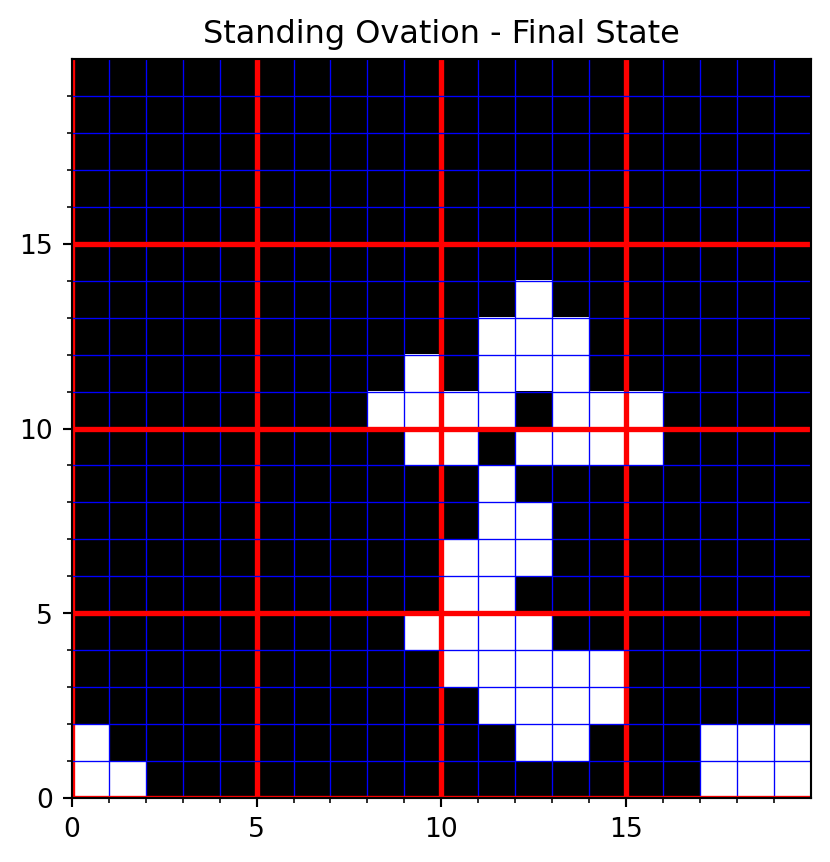
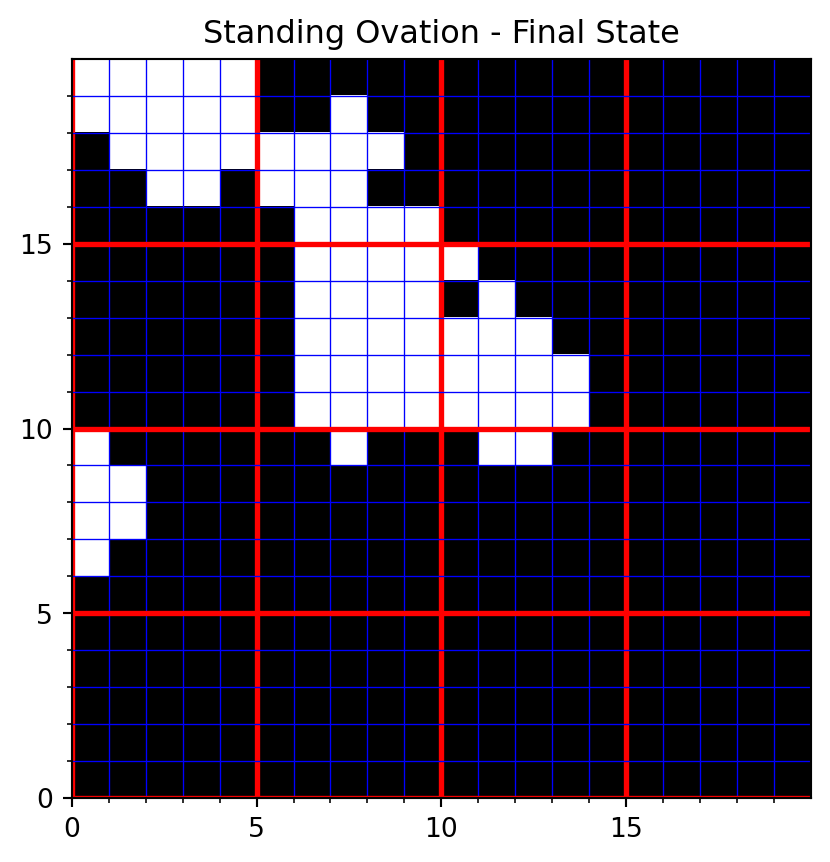
fixes

diff --git a/docs/posts/w02.html b/docs/posts/w02.html
@@ -764,8 +764,8 @@ B(X, Y) = \sum_{i=1}^{n} \frac{x_i}{X} \frac{y_i}{T_i} \qquad
 <span id="cb1-4"><a href="#cb1-4" aria-hidden="true" tabindex="-1"></a>df[<span class="st">'City'</span>] <span class="op">=</span> df[<span class="st">'City'</span>].<span class="bu">str</span>.<span class="bu">slice</span>(<span class="dv">0</span>,<span class="dv">20</span>)</span>
 <span id="cb1-5"><a href="#cb1-5" aria-hidden="true" tabindex="-1"></a>show(df,maxBytes <span class="op">=</span> <span class="dv">200</span> <span class="op">*</span> <span class="dv">1024</span>)</span></code><button title="Copy to Clipboard" class="code-copy-button"><i class="bi"></i></button></pre></div>
 <div class="cell-output cell-output-display">
-<table id="itables_d21893ae_d0c8_435e_9280_22801375ee3f" class="display nowrap" data-quarto-disable-processing="true" style="table-layout:auto;width:auto;margin:auto;caption-side:bottom"><caption><p>Segregation in US cities with a population greater than 20k based on
-the 2020 census</p> {#ccf9e80a}</caption>
+<table id="itables_71ef8495_3db7_48d8_862a_42094b0b7b1a" class="display nowrap" data-quarto-disable-processing="true" style="table-layout:auto;width:auto;margin:auto;caption-side:bottom"><caption><p>Segregation in US cities with a population greater than 20k based on
+the 2020 census</p> {#4de9f5da}</caption>
 <thead>
     <tr style="text-align: right;">
       
@@ -846,7 +846,7 @@ Loading ITables v2.1.0 from the internet...
 <script type="module">
     import {DataTable, jQuery as $} from 'https://www.unpkg.com/dt_for_itables@2.0.7/dt_bundle.js';
 
-    document.querySelectorAll("#itables_d21893ae_d0c8_435e_9280_22801375ee3f:not(.dataTable)").forEach(table => {
+    document.querySelectorAll("#itables_71ef8495_3db7_48d8_862a_42094b0b7b1a:not(.dataTable)").forEach(table => {
         // Define the table data
         const data = [[1, "Detroit city, MI", 0.806, "High Segregation"], [2, "Newark city, NJ", 0.6806, "High Segregation"], [3, "Hialeah city, FL", 0.654, "High Segregation"], [4, "Chicago city, IL", 0.6223, "High Segregation"], [5, "Milwaukee city, WI", 0.5936, "High Segregation"], [6, "Cleveland city, OH", 0.5478, "High Segregation"], [7, "New York city, NY", 0.4379, "High Segregation"], [8, "Irving city, TX", 0.4082, "High Segregation"], [9, "Miami city, FL", 0.4074, "High Segregation"], [10, "St. Louis city, MO", 0.4069, "High Segregation"], [11, "Philadelphia city, P", 0.3974, "High Segregation"], [12, "Dallas city, TX", 0.3968, "High Segregation"], [13, "Irvine city, CA", 0.3876, "High Segregation"], [14, "Santa Ana city, CA", 0.3762, "High Segregation"], [15, "Atlanta city, GA", 0.363, "High Segregation"], [16, "Oakland city, CA", 0.3572, "High Segregation"], [17, "Memphis city, TN", 0.3453, "High Segregation"], [18, "Buffalo city, NY", 0.3362, "High Segregation"], [19, "Baltimore city, MD", 0.3335, "High Segregation"], [20, "Boston city, MA", 0.3333, "High Segregation"], [21, "Fremont city, CA", 0.3297, "High Segregation"], [22, "Washington city, DC", 0.3295, "High Segregation"], [23, "New Orleans city, LA", 0.3226, "High Segregation"], [24, "Houston city, TX", 0.3187, "High Segregation"], [25, "Los Angeles city, CA", 0.3088, "High Segregation"], [26, "Cincinnati city, OH", 0.3006, "High Segregation"], [27, "Jersey City city, NJ", 0.2953, "High Segregation"], [28, "St. Paul city, MN", 0.2949, "High Segregation"], [29, "Orlando city, FL", 0.2877, "High Segregation"], [30, "Baton Rouge city, LA", 0.2817, "High Segregation"], [31, "Little Rock city, AR", 0.2813, "High Segregation"], [32, "Richmond city, VA", 0.2794, "High Segregation"], [33, "Tampa city, FL", 0.2787, "High Segregation"], [34, "Kansas City city, MO", 0.2754, "High Segregation"], [35, "Frisco city, TX", 0.2743, "High Segregation"], [36, "Plano city, TX", 0.2689, "High Segregation"], [37, "Indianapolis city (b", 0.2538, "High Segregation"], [38, "Chula Vista city, CA", 0.2522, "High Segregation"], [39, "San Diego city, CA", 0.2514, "High Segregation"], [40, "Phoenix city, AZ", 0.2429, "High Segregation"], [41, "Charlotte city, NC", 0.2347, "High Segregation"], [42, "St. Petersburg city,", 0.2278, "High Segregation"], [43, "Scottsdale city, AZ", 0.2241, "High Segregation"], [44, "Fort Worth city, TX", 0.2232, "High Segregation"], [45, "Omaha city, NE", 0.2229, "High Segregation"], [46, "Yonkers city, NY", 0.2207, "High Segregation"], [47, "Huntsville city, AL", 0.2206, "High Segregation"], [48, "Minneapolis city, MN", 0.2206, "High Segregation"], [49, "Pittsburgh city, PA", 0.2195, "High Segregation"], [50, "Rochester city, NY", 0.2182, "High Segregation"], [51, "Montgomery city, AL", 0.2135, "High Segregation"], [52, "Oklahoma City city, ", 0.2119, "High Segregation"], [53, "Tulsa city, OK", 0.2118, "High Segregation"], [54, "Columbus city, OH", 0.2088, "High Segregation"], [55, "Long Beach city, CA", 0.2077, "High Segregation"], [56, "Greensboro city, NC", 0.2055, "High Segregation"], [57, "Nashville-Davidson m", 0.203, "High Segregation"], [58, "Denver city, CO", 0.1971, "High Segregation"], [59, "Columbus city, GA", 0.1893, "High Segregation"], [60, "North Las Vegas city", 0.1888, "High Segregation"], [61, "Raleigh city, NC", 0.1878, "High Segregation"], [62, "Norfolk city, VA", 0.1858, "High Segregation"], [63, "San Jose city, CA", 0.1852, "High Segregation"], [64, "Winston-Salem city, ", 0.1851, "High Segregation"], [65, "Garland city, TX", 0.1811, "High Segregation"], [66, "San Francisco city, ", 0.1797, "High Segregation"], [67, "Louisville/Jefferson", 0.1783, "High Segregation"], [68, "Aurora city, CO", 0.1756, "Low-Medium Segregation"], [69, "Sacramento city, CA", 0.1731, "Low-Medium Segregation"], [70, "Jacksonville city, F", 0.1705, "Low-Medium Segregation"], [71, "McKinney city, TX", 0.1698, "Low-Medium Segregation"], [72, "Durham city, NC", 0.1686, "Low-Medium Segregation"], [73, "Amarillo city, TX", 0.1678, "Low-Medium Segregation"], [74, "San Bernardino city,", 0.1673, "Low-Medium Segregation"], [75, "Toledo city, OH", 0.1661, "Low-Medium Segregation"], [76, "Austin city, TX", 0.1613, "Low-Medium Segregation"], [77, "Fort Wayne city, IN", 0.161, "Low-Medium Segregation"], [78, "Lubbock city, TX", 0.1572, "Low-Medium Segregation"], [79, "Fontana city, CA", 0.153, "Low-Medium Segregation"], [80, "Augusta-Richmond Cou", 0.151, "Low-Medium Segregation"], [81, "Arlington city, TX", 0.15, "Low-Medium Segregation"], [82, "Glendale city, AZ", 0.1487, "Low-Medium Segregation"], [83, "Virginia Beach city,", 0.1487, "Low-Medium Segregation"], [84, "Wichita city, KS", 0.1485, "Low-Medium Segregation"], [85, "Las Vegas city, NV", 0.144, "Low-Medium Segregation"], [86, "San Antonio city, TX", 0.1411, "Low-Medium Segregation"], [87, "Tucson city, AZ", 0.1406, "Low-Medium Segregation"], [88, "Stockton city, CA", 0.1402, "Low-Medium Segregation"], [89, "Anaheim city, CA", 0.14, "Low-Medium Segregation"], [90, "Bakersfield city, CA", 0.1318, "Low-Medium Segregation"], [91, "Fresno city, CA", 0.1289, "Low-Medium Segregation"], [92, "Des Moines city, IA", 0.1284, "Low-Medium Segregation"], [93, "Chandler city, AZ", 0.1276, "Low-Medium Segregation"], [94, "Moreno Valley city, ", 0.1253, "Low-Medium Segregation"], [95, "Chesapeake city, VA", 0.1181, "Low-Medium Segregation"], [96, "Lexington-Fayette ur", 0.1166, "Low-Medium Segregation"], [97, "Mesa city, AZ", 0.1146, "Low-Medium Segregation"], [98, "Tacoma city, WA", 0.1135, "Low-Medium Segregation"], [99, "Henderson city, NV", 0.1111, "Low-Medium Segregation"], [100, "Corpus Christi city,", 0.1075, "Low-Medium Segregation"], [101, "Seattle city, WA", 0.1043, "Low-Medium Segregation"], [102, "Worcester city, MA", 0.0999, "Low-Medium Segregation"], [103, "Riverside city, CA", 0.0967, "Low-Medium Segregation"], [104, "Albuquerque city, NM", 0.0966, "Low-Medium Segregation"], [105, "Reno city, NV", 0.0908, "Low-Medium Segregation"], [106, "Gilbert town, AZ", 0.0879, "Low-Medium Segregation"], [107, "Fayetteville city, N", 0.0853, "Low-Medium Segregation"], [108, "Modesto city, CA", 0.0812, "Low-Medium Segregation"], [109, "Madison city, WI", 0.0812, "Low-Medium Segregation"], [110, "Anchorage municipali", 0.0775, "Low-Medium Segregation"], [111, "Portland city, OR", 0.0683, "Low-Medium Segregation"], [112, "El Paso city, TX", 0.0644, "Low-Medium Segregation"], [114, "Lincoln city, NE", 0.0464, "Low-Medium Segregation"], [115, "Cape Coral city, FL", 0.0379, "Low-Medium Segregation"], [116, "Boise City city, ID", 0.0379, "Low-Medium Segregation"], [118, "Spokane city, WA", 0.0219, "Low-Medium Segregation"], [119, "Laredo city, TX", 0.0109, "Low-Medium Segregation"], [113, "Colorado Springs cit", 0.0531, "Integrated"], [117, "Port St. Lucie city,", 0.027, "Integrated"]];
 
@@ -1124,7 +1124,7 @@ S^0  = \sum ^C_{j=1}\sum ^R_{i=1} s^0_{ij}
 <ol type="1">
 <li></li>
 </ol>
-<div id="ffd09d6d" class="cell" data-execution_count="2">
+<div id="6fda29a6" class="cell" data-execution_count="2">
 <div class="sourceCode cell-code" id="cb2"><pre class="sourceCode python code-with-copy"><code class="sourceCode python"><span id="cb2-1"><a href="#cb2-1" aria-hidden="true" tabindex="-1"></a><span class="im">import</span> mesa</span>
 <span id="cb2-2"><a href="#cb2-2" aria-hidden="true" tabindex="-1"></a></span>
 <span id="cb2-3"><a href="#cb2-3" aria-hidden="true" tabindex="-1"></a><span class="kw">class</span> AudienceMember(mesa.Agent):</span>
@@ -1192,7 +1192,7 @@ S^0  = \sum ^C_{j=1}\sum ^R_{i=1} s^0_{ij}
 <span id="cb2-65"><a href="#cb2-65" aria-hidden="true" tabindex="-1"></a>        <span class="va">self</span>.datacollector.collect(<span class="va">self</span>)</span></code><button title="Copy to Clipboard" class="code-copy-button"><i class="bi"></i></button></pre></div>
 </div>
 <p>Some code to visualize the state</p>
-<div id="cbe70f79" class="cell" data-execution_count="3">
+<div id="4a0fb317" class="cell" data-execution_count="3">
 <div class="sourceCode cell-code" id="cb3"><pre class="sourceCode python code-with-copy"><code class="sourceCode python"><span id="cb3-1"><a href="#cb3-1" aria-hidden="true" tabindex="-1"></a><span class="im">import</span> matplotlib.pyplot <span class="im">as</span> plt</span>
 <span id="cb3-2"><a href="#cb3-2" aria-hidden="true" tabindex="-1"></a><span class="im">from</span> matplotlib.ticker <span class="im">import</span> MultipleLocator, FormatStrFormatter</span>
 <span id="cb3-3"><a href="#cb3-3" aria-hidden="true" tabindex="-1"></a></span>
@@ -1228,7 +1228,7 @@ S^0  = \sum ^C_{j=1}\sum ^R_{i=1} s^0_{ij}
 <span id="cb3-33"><a href="#cb3-33" aria-hidden="true" tabindex="-1"></a>    plt.title(<span class="ss">f"</span><span class="sc">{</span>model_name<span class="sc">}</span><span class="ss"> - </span><span class="sc">{</span>state_name<span class="sc">}</span><span class="ss">"</span>)</span>
 <span id="cb3-34"><a href="#cb3-34" aria-hidden="true" tabindex="-1"></a>    plt.show()</span></code><button title="Copy to Clipboard" class="code-copy-button"><i class="bi"></i></button></pre></div>
 </div>
-<div id="5a62210e" class="cell" data-execution_count="4">
+<div id="17a4f0c0" class="cell" data-execution_count="4">
 <div class="sourceCode cell-code" id="cb4"><pre class="sourceCode python code-with-copy"><code class="sourceCode python"><span id="cb4-1"><a href="#cb4-1" aria-hidden="true" tabindex="-1"></a><span class="co"># Create the model</span></span>
 <span id="cb4-2"><a href="#cb4-2" aria-hidden="true" tabindex="-1"></a>so_model <span class="op">=</span> StandingOvationModel(<span class="dv">20</span>, <span class="dv">20</span>, initial_standing<span class="op">=</span><span class="fl">0.1</span>, threshold<span class="op">=</span><span class="fl">0.5</span>)</span></code><button title="Copy to Clipboard" class="code-copy-button"><i class="bi"></i></button></pre></div>
 <div class="cell-output cell-output-stderr">
@@ -1258,7 +1258,7 @@ Figure&nbsp;1: Standing Ovation Model - Initial Grid State
 </div>
 </div>
 <p>Simulate the standing ovation model for 15 steps.</p>
-<div id="ca6e61c0" class="cell" data-execution_count="6">
+<div id="76b0bff7" class="cell" data-execution_count="6">
 <div class="sourceCode cell-code" id="cb7"><pre class="sourceCode python code-with-copy"><code class="sourceCode python"><span id="cb7-1"><a href="#cb7-1" aria-hidden="true" tabindex="-1"></a><span class="co"># Run the model for a certain number of steps</span></span>
 <span id="cb7-2"><a href="#cb7-2" aria-hidden="true" tabindex="-1"></a><span class="cf">for</span> i <span class="kw">in</span> <span class="bu">range</span>(<span class="dv">15</span>):</span>
 <span id="cb7-3"><a href="#cb7-3" aria-hidden="true" tabindex="-1"></a>    so_model.step()</span></code><button title="Copy to Clipboard" class="code-copy-button"><i class="bi"></i></button></pre></div>
@@ -1302,23 +1302,23 @@ Figure&nbsp;2: Standing Ovation Model - Final Grid State
 <tbody>
 <tr class="odd">
 <td data-quarto-table-cell-role="th">0</td>
-<td>86</td>
+<td>84</td>
 </tr>
 <tr class="even">
 <td data-quarto-table-cell-role="th">1</td>
-<td>144</td>
+<td>115</td>
 </tr>
 <tr class="odd">
 <td data-quarto-table-cell-role="th">2</td>
-<td>203</td>
+<td>158</td>
 </tr>
 <tr class="even">
 <td data-quarto-table-cell-role="th">3</td>
-<td>238</td>
+<td>200</td>
 </tr>
 <tr class="odd">
 <td data-quarto-table-cell-role="th">4</td>
-<td>258</td>
+<td>233</td>
 </tr>
 </tbody>
 </table>

diff --git a/docs/posts/w06.html b/docs/posts/w06.html
@@ -91,7 +91,7 @@ div.csl-indent {
 <style>
 
       .quarto-title-block .quarto-title-banner {
-        background-image: url(images/mt_seg_bg03.png);
+        background-image: url(../images/banner_black_3.jpg);
 background-size: cover;
       }
 </style>
@@ -259,10 +259,19 @@ window.Quarto = {
 <h2 class="anchored" data-anchor-id="sec-introduction-to-categorical-linear-and-non-linear-models">Introduction to categorical, linear, and nonlinear models</h2>
 <p>Categorical models allocates the data into different boxes. For example, trying to understand why some people live longer than others, we could divide them into people who exercise and people who do not exercise. By looking at the variation and the mean values in those boxes, you might find out whether or not this categorization says something about how long people live.</p>
 
-<div class="no-row-height column-margin column-container"><div class="quarto-figure quarto-figure-center">
+<div class="no-row-height column-margin column-container"><div id="fig-linear-model" class="quarto-float quarto-figure quarto-figure-center anchored">
+<figure class="quarto-float quarto-float-fig figure">
+<div aria-describedby="fig-linear-model-caption-0ceaefa1-69ba-4598-a22c-09a6ac19f8ca">
+<div class="quarto-figure quarto-figure-center">
 <figure class="figure">
 <p><img src="images/mt_linear_data.jpg" class="img-fluid figure-img"></p>
-<figcaption>Constructing linear model from data</figcaption>
+<figcaption>Scatter Plot with regression line fitted</figcaption>
+</figure>
+</div>
+</div>
+<figcaption class="quarto-float-caption-bottom quarto-float-caption quarto-float-fig" id="fig-linear-model-caption-0ceaefa1-69ba-4598-a22c-09a6ac19f8ca">
+Figure&nbsp;1: Constructing linear model from data
+</figcaption>
 </figure>
 </div></div><p>Linear models assume that some variable <span class="math inline">Y</span> depends on variable <span class="math inline">X</span>, so <span class="math inline">Y</span> is a function of <span class="math inline">X</span> or <span class="math inline">Y = f(X)</span>.</p>
 <p>For instance, if <span class="math inline">Y</span> is life expectancy, <span class="math inline">X</span> might measure physical exercise. Thus, life expectancy is a function of how much a person exercises.</p>
@@ -278,23 +287,38 @@ Y = a_1X_1 + a_2X_2
 <li><span class="math inline">X_2</span> might be teacher quality.</li>
 </ul>
 <p>Here <span class="math inline">a_1</span> and <span class="math inline">a_2</span> are the coefficients. These coefficients tell how important the variable is, so the bigger the coefficient, the more important the variable.</p>
-<p>Linear models can lead to big coefficient thinking, and if these are valid, then that will serve decision-makers better than rules of thumb, intuition, or experience. However, as time passes, reusing the main effect of an old model may be inadequate. There could be data drift, or alternatively, any improvement due to the main effect may have petered out due to diminishing returns. Over time, overhalling dysfunctional policies can require new and radical thinking. Approaches like revisiting old assumptions and rethinking out of the box can lead to something new, which we call new reality thinking. A problem with big coefficient thinking is that it only works in areas with specific data available. Over time, new data may even switch the size of the coefficients, leading to a loss of confidence in the model. Significant breakthroughs are often made by shifting to areas without data. A “new reality” will arise when the projections of big coefficients or even the assumptions behind them can be seen as inadequate, and decision-makers decide to rebuild a new model. ::: callout-warning ### Big Coefficient Warning:</p>
-<p>Regression and Linear models can have negative coefficients, interaction terms and so on, which, with one negative term, can render the “big coefficient.” approximation or decision wrong. :::</p>
-<p><span class="math display">
+<p>Linear models can lead to big coefficient thinking, and if these are valid, then that will serve decision-makers better than rules of thumb, intuition, or experience. However, as time passes, reusing the main effect of an old model may be inadequate. There could be data drift, or alternatively, any improvement due to the main effect may have petered out due to diminishing returns. Over time, overhalling dysfunctional policies can require new and radical thinking. Approaches like revisiting old assumptions and rethinking out of the box can lead to something new, which we call new reality thinking. A problem with big coefficient thinking is that it only works in areas with specific data available. Over time, new data may even switch the size of the coefficients, leading to a loss of confidence in the model. Significant breakthroughs are often made by shifting to areas without data. A “new reality” will arise when the projections of big coefficients or even the assumptions behind them can be seen as inadequate, and decision-makers decide to rebuild a new model.</p>
+<div class="callout callout-style-default callout-warning callout-titled">
+<div class="callout-header d-flex align-content-center">
+<div class="callout-icon-container">
+<i class="callout-icon"></i>
+</div>
+<div class="callout-title-container flex-fill">
+Big Coefficient Warning:
+</div>
+</div>
+<div class="callout-body-container callout-body">
+<p>Regression and Linear models can have negative coefficients, interaction terms and so on, which, with one negative term, can render the “big coefficient.” approximation or decision wrong.</p>
+</div>
+</div>
+<p><span id="eq-big-coefficient"><span class="math display">
 Y = 6 X_1 + 6 X_2 - 8 X_3 \\ \text{subject to} (X_3 = max({X_1,X_2}))
-</span></p>
+\tag{1}</span></span></p>
 <p>We want to increase <span class="math inline">Y</span>. The big coefficient is <span class="math inline">X_3</span>, but it reduces <span class="math inline">Y</span>. Reducing <span class="math inline">X_3</span> will reduce <span class="math inline">Y</span> since it also reduces <span class="math inline">X_1, X_2</span> to increase. Increasing <span class="math inline">Y</span>, we need to increase <span class="math inline">X_1</span> and <span class="math inline">X_2</span> together as increasing just one will increase <span class="math inline">X_3</span> and thus decrease <span class="math inline">Y</span>. The bottom line is that under certain conditions not listed by Dr.&nbsp;Page, the big coefficient is a useful approximation, but this assumption is not generally true in regression models. Dr.&nbsp;Page introduces the concept of a <strong>“new reality”</strong> to counter the shortcomings of big coefficient thinking. Unfortunately, the new reality that was introduced seems to have arisen from a failure. Later, he makes a case that “new reality” is a policy based on some other effect. However, these new reality initiatives seem to have no evidence to back them up. So this seems like <strong>muddy thinking</strong> rather than <strong>Clear thinking</strong></p>
 </section>
 <section id="sec-categorical-models" class="level2 page-columns page-full">
 <h2 class="anchored" data-anchor-id="sec-categorical-models">Categorical models</h2>
 <p>Categorical models allocate the data into different groups. Variation in and between groups can be capture much of the overall variation in variations in the data.</p>
 <div id="exm-amazon-stock" class="theorem example">
-<p><span class="theorem-title"><strong>Example 1</strong></span> e.g., at the time of the IPO of Amazon, most analysts catagorised it as a delivery service like DHL or FedEx, and because the delivery buiness was such a cut-throat bussiness companies in it have low-profit margins so they thought Amazon would be a bad investment. A few analysts thought Amazon would be a good investment because they saw Amazon as part of the new information economy. Differnt analysts put Amazon in a different boxes. Amazon did badly for over a decade then they started letting computers a totatly differnt business model and then they did very well, so which box we choose matters for our investment portfollio and also which story you choose to tell. :::: {callout-info} ### dot.com crash &amp; the information economy. <span class="emoji" data-emoji="poop">💩</span> <span class="emoji" data-emoji="poop">💩</span> <span class="emoji" data-emoji="poop">💩</span></p>
+<p><span class="theorem-title"><strong>Example 1</strong></span> e.g., at the time of the IPO of Amazon, most analysts catagorised it as a delivery service like DHL or FedEx, and because the delivery buiness was such a cut-throat bussiness companies in it have low-profit margins so they thought Amazon would be a bad investment. A few analysts thought Amazon would be a good investment because they saw Amazon as part of the new information economy. Differnt analysts put Amazon in a different boxes. Amazon did badly for over a decade then they started letting computers a totatly differnt business model and then they did very well, so which box we choose matters for our investment portfollio and also which story you choose to tell.</p>
+<section id="dot.com-crash-the-information-economy." class="level3 {callout-info}">
+<h3 class="anchored" data-anchor-id="dot.com-crash-the-information-economy.">dot.com crash &amp; the information economy. <span class="emoji" data-emoji="poop">💩</span> <span class="emoji" data-emoji="poop">💩</span> <span class="emoji" data-emoji="poop">💩</span></h3>
 <p>Any time I hear the concept of “the information economy” I am sad to recall how this “rethoric for a new economy” died with out when most of the dot.com companies burt through their VC/IPO money through incompetency or corrupt management caused a global recession. So I think Dr.&nbsp;Page is being disingenious by picking this example.</p>
 <p>I also recall Amazon had zero or negative profits for over a decade after the doc.com crash. It overhauled its bussines concept servral times before it became a “good” investment and is facing stiff competition in its primery market from chinese stores. Also over times there are many new stories coming out how Amazon is making profits by squeezing it workforce to work harder and for less that DHL and FedEx which are both partners and competitors.</p>
 <p>Finaly the question this example raises is: How can we find build a model that knows to place novel items accurately into new boxes without any other examples. Because model are supposed to better than analysts. In reality categorical model are not as resourceful as an analyst, they can’t invent new catergories. Event if is add some extra lables, without examples the model wont assign new items to these category.</p>
+</section>
 </div>
-<p>::: Lump to live means that we create categories to make sense of the world. For example, if we see a car, we do not say there goes a 2003 Volkswagen 1.6 GTI, but we say car. We model to decide, plan, and design. One reason we lump is to make faster decisions. For example, a child may have a rule not to eat green items. This helps the child avoid eating grasshoppers, which it does not like to eat. However, the rule is not optimal. The child might forego a juicy pear in this way.</p>
+<p>Lump to live means that we create categories to make sense of the world. For example, if we see a car, we do not say there goes a 2003 Volkswagen 1.6 GTI, but we say car. We model to decide, plan, and design. One reason we lump is to make faster decisions. For example, a child may have a rule not to eat green items. This helps the child avoid eating grasshoppers, which it does not like to eat. However, the rule is not optimal. The child might forego a juicy pear in this way.</p>
 
 <div class="no-row-height column-margin column-container"><div class="quarto-figure quarto-figure-center">
 <figure class="figure">
@@ -316,7 +340,7 @@ Y = 6 X_1 + 6 X_2 - 8 X_3 \\ \text{subject to} (X_3 = max({X_1,X_2}))
 <p>The total variation explained is</p>
 <p><span id="eq-r-2-calcualtion"><span class="math display">
 (1 - 5,200/53,200)*100% = 90.2%
-\tag{1}</span></span></p>
+\tag{2}</span></span></p>
 <p>This is called the <strong>R-squared</strong>.</p>
 <ul>
 <li>If the R-squared is near 1, the model explains a lot of the variance in the data</li>

diff --git a/docs/index.html b/docs/index.html
@@ -254,7 +254,7 @@ window.Quarto = {
 
 <div class="quarto-listing quarto-listing-container-default" id="listing-listing">
 <div class="list quarto-listing-default">
[2 lines of base64/hex data omitted]
 <div class="thumbnail">
 <p><a href="./posts/w13.html" class="no-external"></a></p><a href="./posts/w13.html" class="no-external">
 <p class="card-img-top"><img src="posts/images/mt_urn_model.jpg"  class="thumbnail-image card-img"/></p>
@@ -302,7 +302,7 @@ Aug 13, 2023
 </a>
 </div>
 </div>
[2 lines of base64/hex data omitted]
 <div class="thumbnail">
 <p><a href="./posts/w12.html" class="no-external"></a></p><a href="./posts/w12.html" class="no-external">
 <p class="card-img-top"><img src="posts/images/mt_culture_survey.jpg"  class="thumbnail-image card-img"/></p>
@@ -341,7 +341,7 @@ Aug 12, 2023
 </a>
 </div>
 </div>
[2 lines of base64/hex data omitted]
 <div class="thumbnail">
 <p><a href="./posts/w11.html" class="no-external"></a></p><a href="./posts/w11.html" class="no-external">
 <p class="card-img-top"><img src="posts/images/mt_trade.jpg"  class="thumbnail-image card-img"/></p>
@@ -377,7 +377,7 @@ Aug 11, 2023
 </a>
 </div>
 </div>
[2 lines of base64/hex data omitted]
 <div class="thumbnail">
 <p><a href="./posts/w10.html" class="no-external"></a></p><a href="./posts/w10.html" class="no-external">
 <p class="card-img-top"><img src="posts/images/mt_free_or_not.jpg"  class="thumbnail-image card-img"/></p>
@@ -437,7 +437,7 @@ Aug 10, 2023
 </a>
 </div>
 </div>
[2 lines of base64/hex data omitted]
 <div class="thumbnail">
 <p><a href="./posts/w09.html" class="no-external"></a></p><a href="./posts/w09.html" class="no-external">
 <p class="card-img-top"><img src="posts/images/mt_landscape.jpg"  class="thumbnail-image card-img"/></p>
@@ -497,7 +497,7 @@ Aug 9, 2023
 </a>
 </div>
 </div>
[2 lines of base64/hex data omitted]
 <div class="thumbnail">
 <p><a href="./posts/w08.html" class="no-external"></a></p><a href="./posts/w08.html" class="no-external">
 <p class="card-img-top"><img src="posts/images/mt_gdp_comparison.jpg"  class="thumbnail-image card-img"/></p>
@@ -557,7 +557,7 @@ Aug 8, 2023
 </a>
 </div>
 </div>
[2 lines of base64/hex data omitted]
 <div class="thumbnail">
 <p><a href="./posts/w07.html" class="no-external"></a></p><a href="./posts/w07.html" class="no-external">
 <p class="card-img-top"><img src="posts/images/mt_straw_camel.jpg"  class="thumbnail-image card-img"/></p>
@@ -617,7 +617,7 @@ Aug 7, 2023
 </a>
 </div>
 </div>
[2 lines of base64/hex data omitted]
 <div class="thumbnail">
 <p><a href="./posts/w06.html" class="no-external"></a></p><a href="./posts/w06.html" class="no-external">
 <p class="card-img-top"><img src="posts/images/mt_linear_data.jpg"  class="thumbnail-image card-img"/></p>

diff --git a/docs/posts/w03.html b/docs/posts/w03.html
@@ -547,7 +547,7 @@ Figure&nbsp;4: Bell curve and empirical rule
 <p>We can now use this standard deviation to make statistical inferences. Airlines overbook to increase their profits, so they need to know the probability of someone not getting a seat. This allows them to estimate the expected cost of offering people a second ticket to take the next flight.</p>
 <div id="exm-plane-seats" class="theorem example">
 <p><span class="theorem-title"><strong>Example 5 (Flight Overbooking)</strong></span> &nbsp;</p>
-<div id="5b2bbdc4" class="cell" data-execution_count="1">
+<div id="6734f640" class="cell" data-execution_count="1">
 <div class="sourceCode cell-code" id="cb1"><pre class="sourceCode python code-with-copy"><code class="sourceCode python"><span id="cb1-1"><a href="#cb1-1" aria-hidden="true" tabindex="-1"></a><span class="im">import</span> math</span>
 <span id="cb1-2"><a href="#cb1-2" aria-hidden="true" tabindex="-1"></a>p<span class="op">=</span><span class="fl">0.9</span>           <span class="co"># show up rate</span></span>
 <span id="cb1-3"><a href="#cb1-3" aria-hidden="true" tabindex="-1"></a>seats <span class="op">=</span> <span class="dv">380</span>     <span class="co"># seat on plane</span></span>

diff --git a/docs/about.html b/docs/about.html
@@ -71,7 +71,8 @@ ul.task-list li input[type="checkbox"] {
 <style>
 
       .quarto-title-block .quarto-title-banner {
-        background: images/mt_seg_bg03.png;
+        background-image: url(images/banner_black_3.jpg);
+background-size: cover;
       }
 </style>
 

diff --git a/docs/posts/w13.html b/docs/posts/w13.html
@@ -91,7 +91,7 @@ div.csl-indent {
 <style>
 
       .quarto-title-block .quarto-title-banner {
-        background-image: url(images/mt_seg_bg03.png);
+        background-image: url(../images/banner_black_3.jpg);
 background-size: cover;
       }
 </style>
